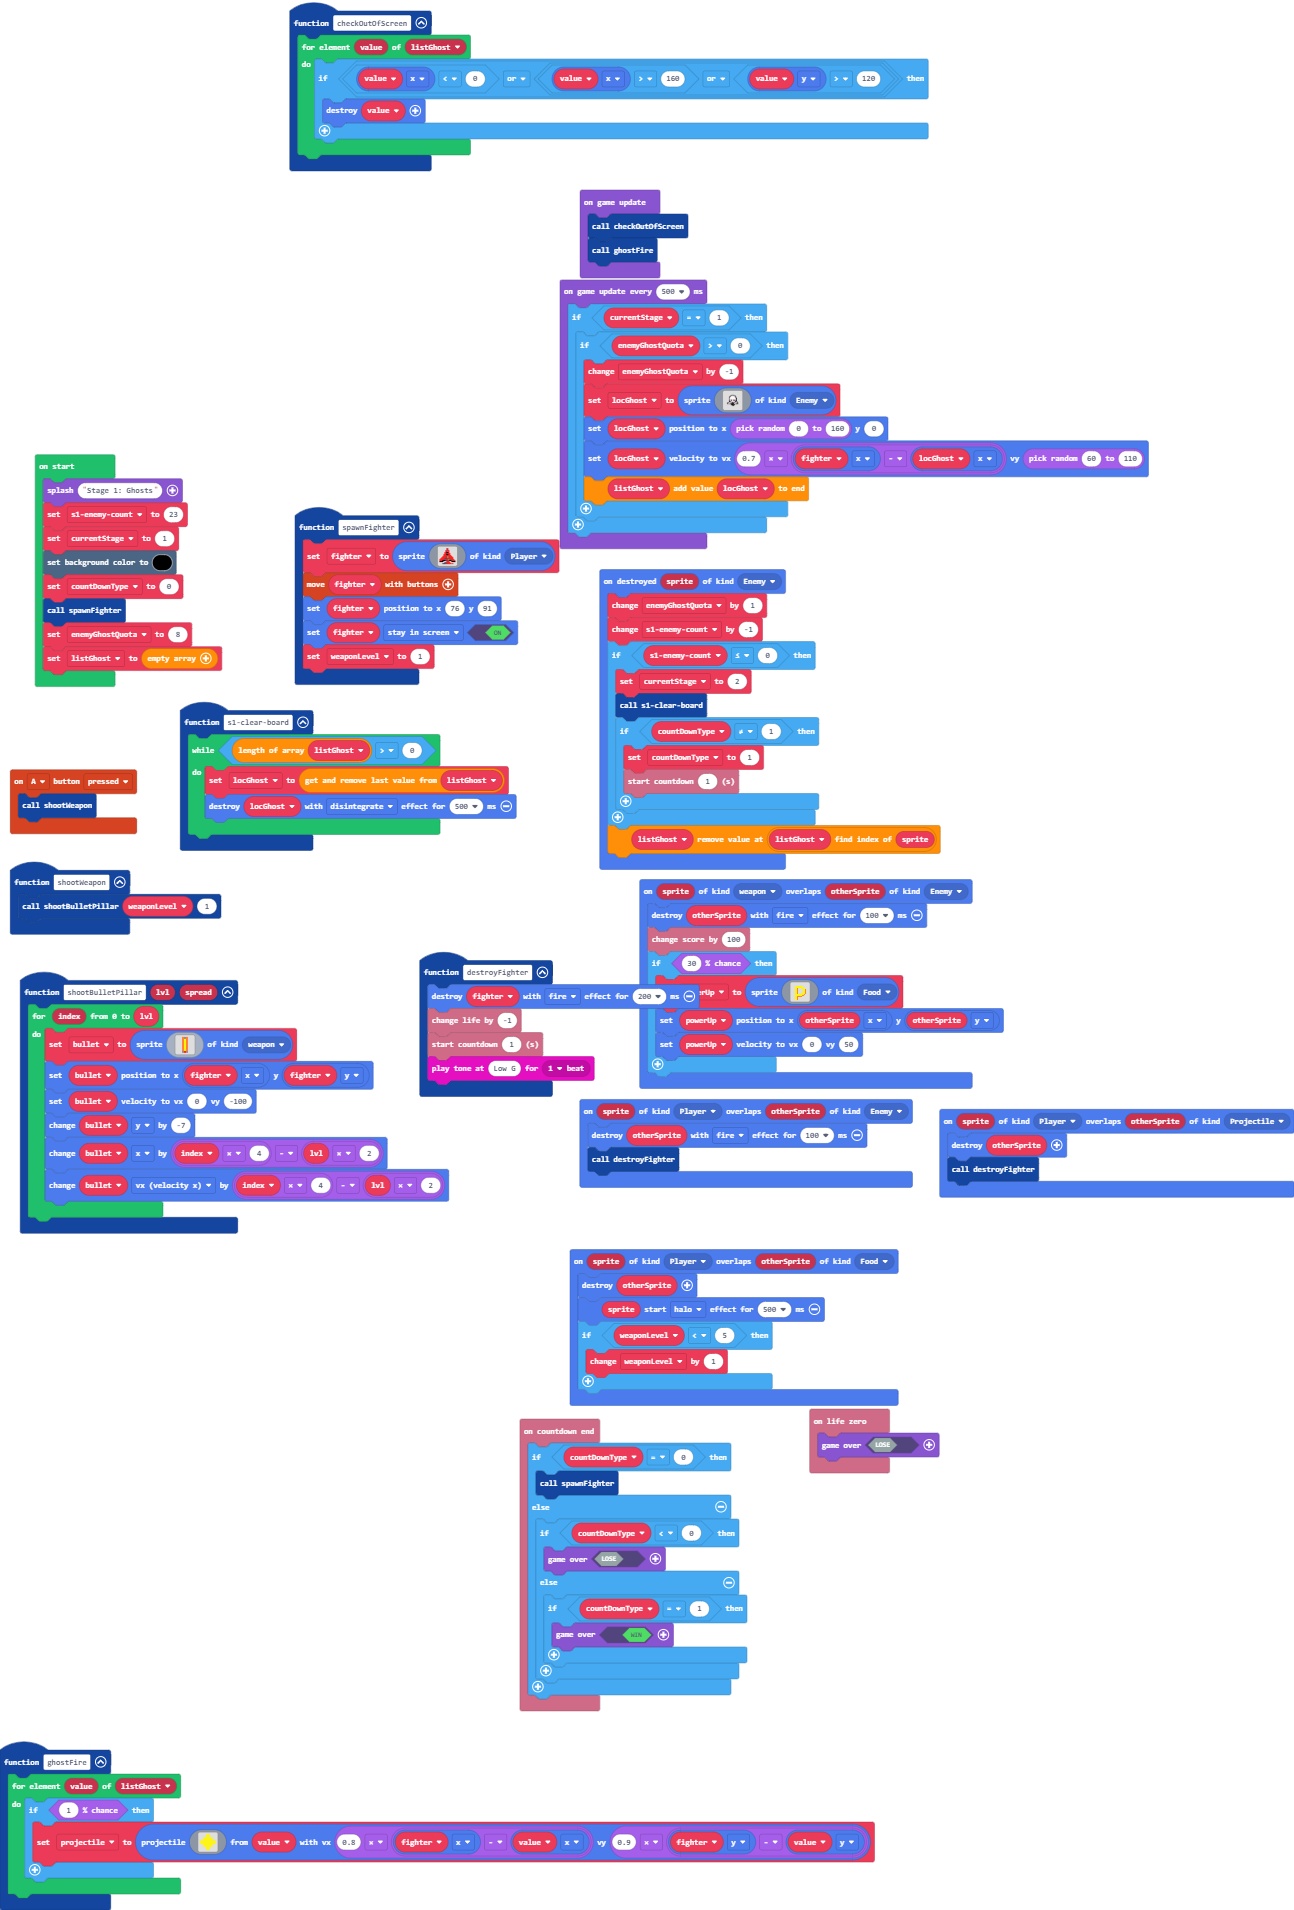
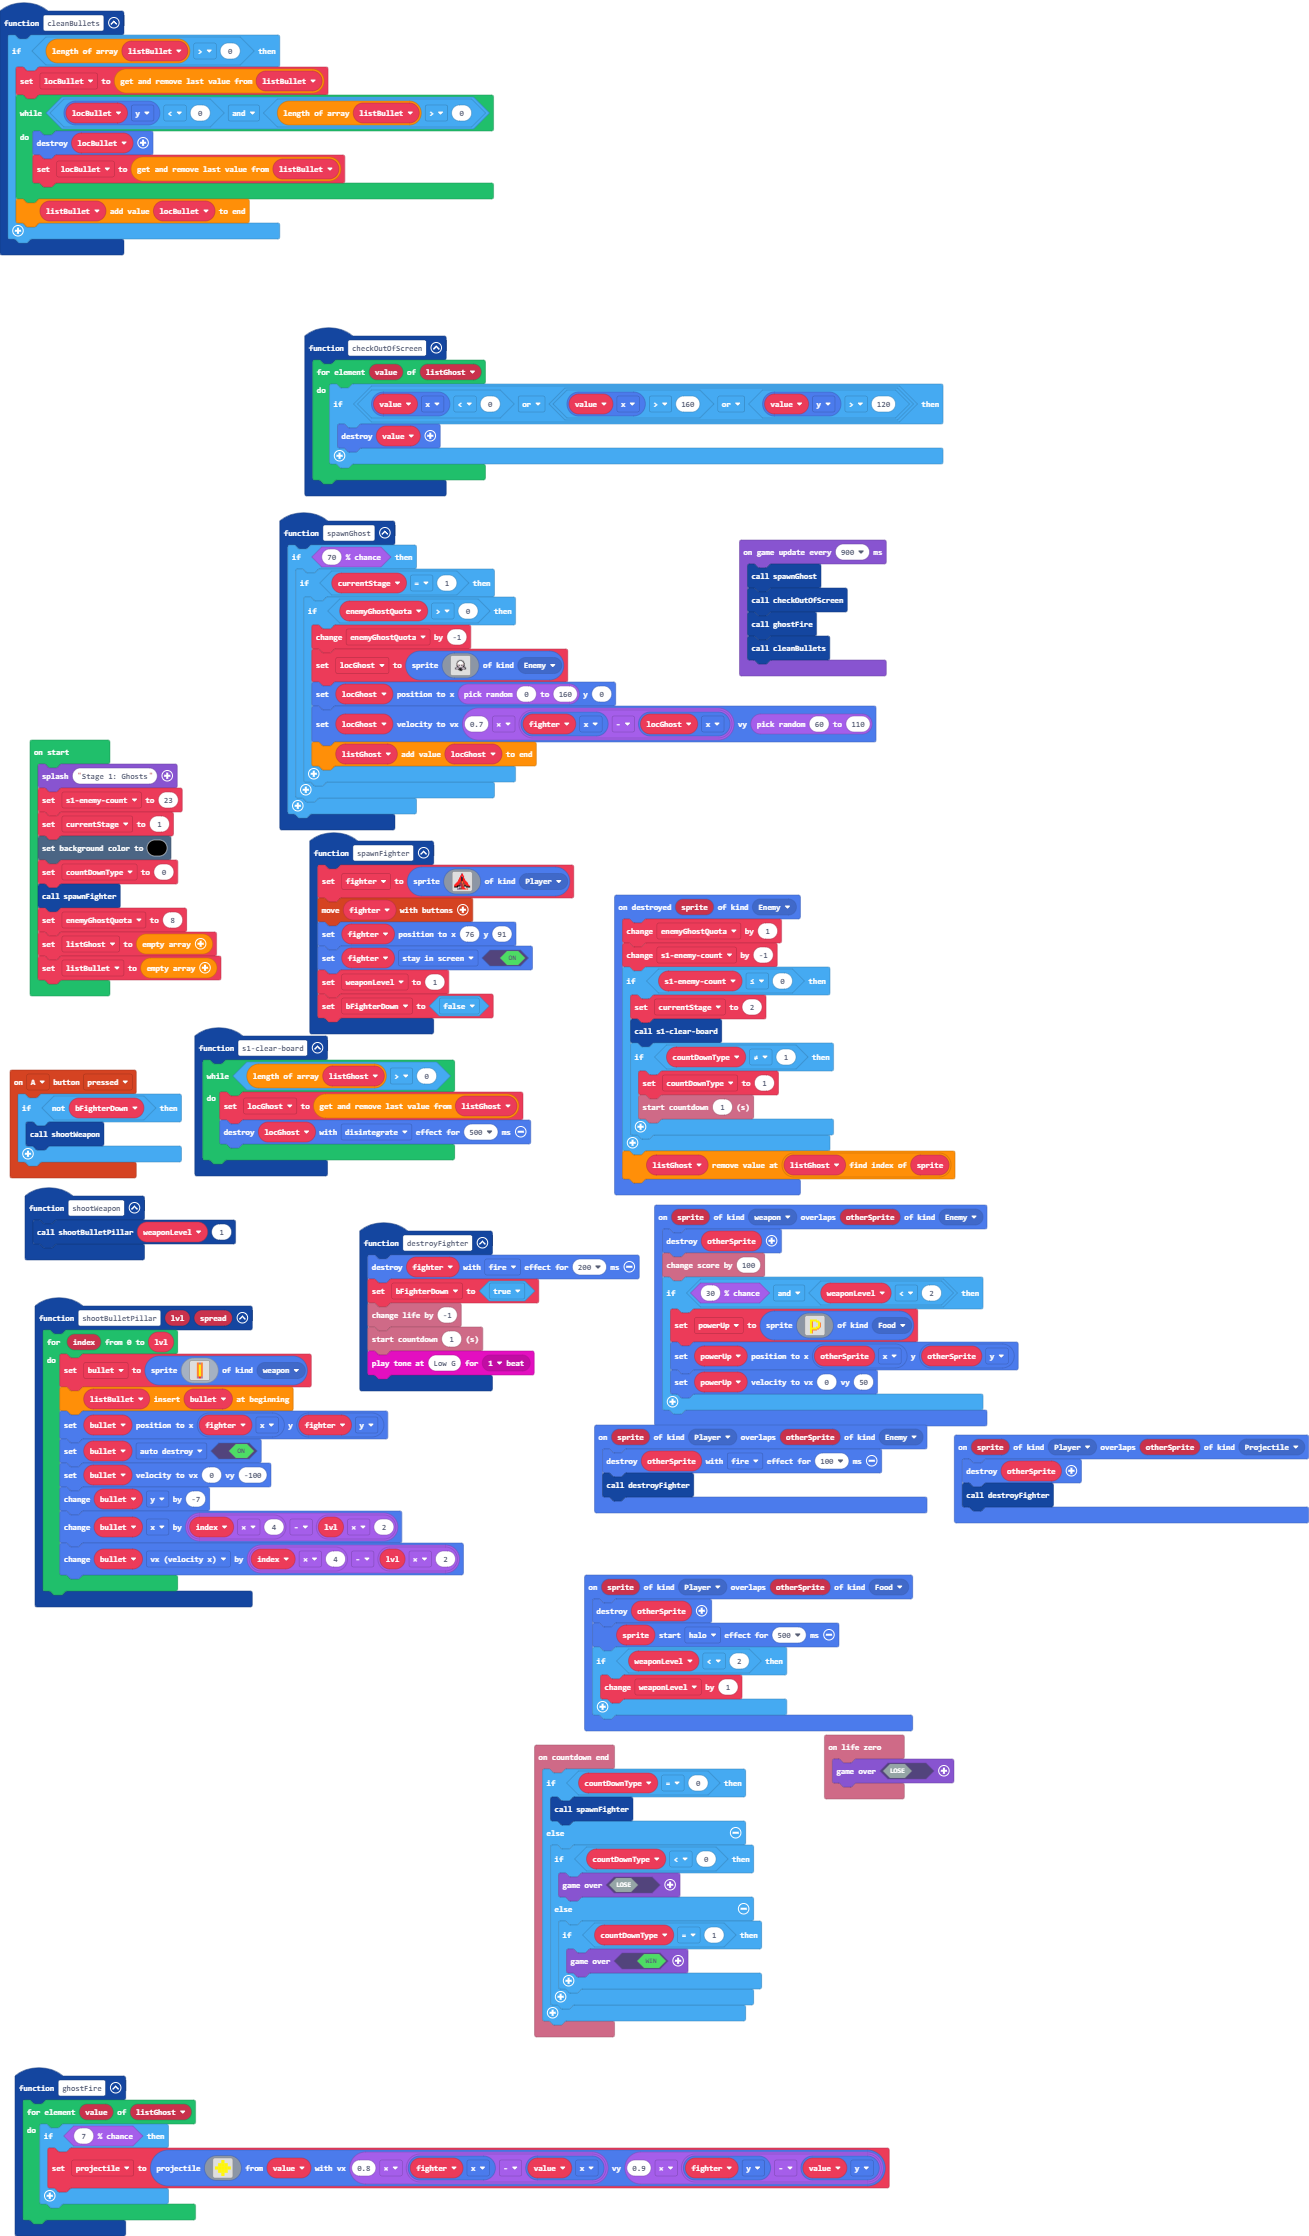
gauge for meowbit

diff --git a/main.ts b/main.ts
@@ -2,9 +2,9 @@ namespace SpriteKind {
     export const weapon = SpriteKind.create()
 }
 sprites.onOverlap(SpriteKind.weapon, SpriteKind.Enemy, function (sprite, otherSprite) {
-    otherSprite.destroy(effects.fire, 100)
+    otherSprite.destroy()
     info.changeScoreBy(100)
-    if (Math.percentChance(30)) {
+    if (Math.percentChance(30) && weaponLevel < 2) {
         powerUp = sprites.create(img`
             . . . . . . . . . . . . . . . . 
             . . . . . . . . . . . . . . . . 
@@ -50,9 +50,22 @@ function spawnFighter () {
     fighter.setPosition(76, 91)
     fighter.setFlag(SpriteFlag.StayInScreen, true)
     weaponLevel = 1
+    bFighterDown = false
+}
+function cleanBullets () {
+    if (listBullet.length > 0) {
+        locBullet = listBullet.pop()
+        while (locBullet.y < 0 && listBullet.length > 0) {
+            locBullet.destroy()
+            locBullet = listBullet.pop()
+        }
+        listBullet.push(locBullet)
+    }
 }
 controller.A.onEvent(ControllerButtonEvent.Pressed, function () {
-    shootWeapon()
+    if (!(bFighterDown)) {
+        shootWeapon()
+    }
 })
 function checkOutOfScreen () {
     for (let value of listGhost) {
@@ -76,6 +89,7 @@ info.onCountdownEnd(function () {
 })
 function destroyFighter () {
     fighter.destroy(effects.fire, 200)
+    bFighterDown = true
     info.changeLifeBy(-1)
     info.startCountdown(1)
     music.playTone(196, music.beat(BeatFraction.Whole))
@@ -89,6 +103,44 @@ function s1clearboard () {
         locGhost.destroy(effects.disintegrate, 500)
     }
 }
+function spawnGhost () {
+    if (Math.percentChance(70)) {
+        if (currentStage == 1) {
+            if (enemyGhostQuota > 0) {
+                enemyGhostQuota += -1
+                locGhost = sprites.create(img`
+                    . . . . . . . . . . . . . . . . . . . . . . . . 
+                    . . . . . . . . . . . . . . . . . . . . . . . . 
+                    . . . . . . . . . . . . . . . . . . . . . . . . 
+                    . . . . . . . . . . . . . . . . . . . . . . . . 
+                    . . . . . . . . . . f f f f . . . . . . . . . . 
+                    . . . . . . . . f f 1 1 1 1 f f . . . . . . . . 
+                    . . . . . . . f b 1 1 1 1 1 1 b f . . . . . . . 
+                    . . . . . . . f 1 1 1 1 1 1 1 1 f . . . . . . . 
+                    . . . . . . f d 1 1 1 1 1 1 1 1 d f . . . . . . 
+                    . . . . . . f d 1 1 1 1 1 1 1 1 d f . . . . . . 
+                    . . . . . . f d d d 1 1 1 1 d d d f . . . . . . 
+                    . . . . . . f b d b f d d f b d b f . . . . . . 
+                    . . . . . . f c d c f 1 1 f c d c f . . . . . . 
+                    . . . . . . . f b 1 1 1 1 1 1 b f . . . . . . . 
+                    . . . . . . f f f c d b 1 b d f f f f . . . . . 
+                    . . . . f c 1 1 1 c b f b f c 1 1 1 c f . . . . 
+                    . . . . f 1 b 1 b 1 f f f f 1 b 1 b 1 f . . . . 
+                    . . . . f b f b f f f f f f b f b f b f . . . . 
+                    . . . . . . . . . f f f f f f . . . . . . . . . 
+                    . . . . . . . . . . . f f f . . . . . . . . . . 
+                    . . . . . . . . . . . . . . . . . . . . . . . . 
+                    . . . . . . . . . . . . . . . . . . . . . . . . 
+                    . . . . . . . . . . . . . . . . . . . . . . . . 
+                    . . . . . . . . . . . . . . . . . . . . . . . . 
+                    `, SpriteKind.Enemy)
+                locGhost.setPosition(randint(0, 160), 0)
+                locGhost.setVelocity(0.7 * (fighter.x - locGhost.x), randint(60, 110))
+                listGhost.push(locGhost)
+            }
+        }
+    }
+}
 sprites.onOverlap(SpriteKind.Player, SpriteKind.Projectile, function (sprite, otherSprite) {
     otherSprite.destroy()
     destroyFighter()
@@ -99,7 +151,7 @@ info.onLifeZero(function () {
 sprites.onOverlap(SpriteKind.Player, SpriteKind.Food, function (sprite, otherSprite) {
     otherSprite.destroy()
     sprite.startEffect(effects.halo, 500)
-    if (weaponLevel < 5) {
+    if (weaponLevel < 2) {
         weaponLevel += 1
     }
 })
@@ -118,7 +170,7 @@ sprites.onDestroyed(SpriteKind.Enemy, function (sprite) {
 })
 function ghostFire () {
     for (let value of listGhost) {
-        if (Math.percentChance(1)) {
+        if (Math.percentChance(7)) {
             projectile = sprites.createProjectileFromSprite(img`
                 . . 5 . . 
                 . 5 5 5 . 
@@ -141,7 +193,9 @@ function shootBulletPillar (lvl: number, spread: number) {
             4 5 4 
             b 2 b 
             `, SpriteKind.weapon)
+        listBullet.unshift(bullet)
         bullet.setPosition(fighter.x, fighter.y)
+        bullet.setFlag(SpriteFlag.AutoDestroy, true)
         bullet.setVelocity(0, -100)
         bullet.y += -7
         bullet.x += index * 4 - lvl * 2
@@ -155,10 +209,14 @@ sprites.onOverlap(SpriteKind.Player, SpriteKind.Enemy, function (sprite, otherSp
 let bullet: Sprite = null
 let projectile: Sprite = null
 let locGhost: Sprite = null
-let weaponLevel = 0
+let locBullet: Sprite = null
+let bFighterDown = false
 let fighter: Sprite = null
 let powerUp: Sprite = null
+let weaponLevel = 0
+let listBullet: Sprite[] = []
 let listGhost: Sprite[] = []
+let enemyGhostQuota = 0
 let countDownType = 0
 let currentStage = 0
 let s1enemycount = 0
@@ -168,45 +226,12 @@ currentStage = 1
 scene.setBackgroundColor(15)
 countDownType = 0
 spawnFighter()
-let enemyGhostQuota = 8
+enemyGhostQuota = 8
 listGhost = []
-game.onUpdate(function () {
+listBullet = []
+game.onUpdateInterval(900, function () {
+    spawnGhost()
     checkOutOfScreen()
     ghostFire()
-})
-game.onUpdateInterval(500, function () {
-    if (currentStage == 1) {
-        if (enemyGhostQuota > 0) {
-            enemyGhostQuota += -1
-            locGhost = sprites.create(img`
-                . . . . . . . . . . . . . . . . . . . . . . . . 
-                . . . . . . . . . . . . . . . . . . . . . . . . 
-                . . . . . . . . . . . . . . . . . . . . . . . . 
-                . . . . . . . . . . . . . . . . . . . . . . . . 
-                . . . . . . . . . . f f f f . . . . . . . . . . 
-                . . . . . . . . f f 1 1 1 1 f f . . . . . . . . 
-                . . . . . . . f b 1 1 1 1 1 1 b f . . . . . . . 
-                . . . . . . . f 1 1 1 1 1 1 1 1 f . . . . . . . 
-                . . . . . . f d 1 1 1 1 1 1 1 1 d f . . . . . . 
-                . . . . . . f d 1 1 1 1 1 1 1 1 d f . . . . . . 
-                . . . . . . f d d d 1 1 1 1 d d d f . . . . . . 
-                . . . . . . f b d b f d d f b d b f . . . . . . 
-                . . . . . . f c d c f 1 1 f c d c f . . . . . . 
-                . . . . . . . f b 1 1 1 1 1 1 b f . . . . . . . 
-                . . . . . . f f f c d b 1 b d f f f f . . . . . 
-                . . . . f c 1 1 1 c b f b f c 1 1 1 c f . . . . 
-                . . . . f 1 b 1 b 1 f f f f 1 b 1 b 1 f . . . . 
-                . . . . f b f b f f f f f f b f b f b f . . . . 
-                . . . . . . . . . f f f f f f . . . . . . . . . 
-                . . . . . . . . . . . f f f . . . . . . . . . . 
-                . . . . . . . . . . . . . . . . . . . . . . . . 
-                . . . . . . . . . . . . . . . . . . . . . . . . 
-                . . . . . . . . . . . . . . . . . . . . . . . . 
-                . . . . . . . . . . . . . . . . . . . . . . . . 
-                `, SpriteKind.Enemy)
-            locGhost.setPosition(randint(0, 160), 0)
-            locGhost.setVelocity(0.7 * (fighter.x - locGhost.x), randint(60, 110))
-            listGhost.push(locGhost)
-        }
-    }
+    cleanBullets()
 })
